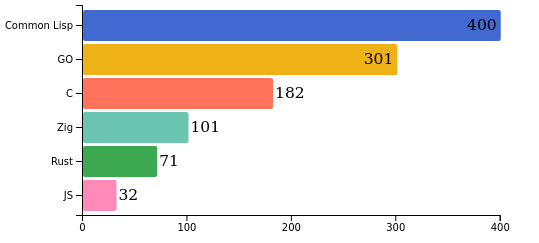
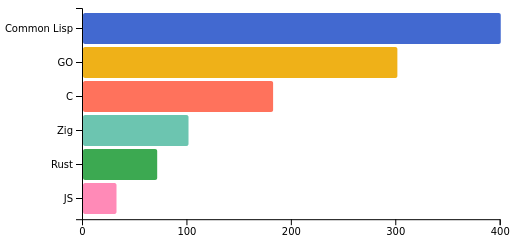
More readme

Changed region(s): [[0.0, 0.0288, 0.966, 0.9506]]

diff --git a/js/main.js b/js/main.js
@@ -9753,7 +9753,7 @@
 
   // js/example.jsx
   ready(function() {
-    var el = "barChartSimpleOne";
+    var elone = "barChartSimpleOne";
     var dataset = [
       { key: "JS", value: 32 },
       { key: "GO", value: 301 },
@@ -9762,16 +9762,26 @@
       { key: "Zig", value: 101 },
       { key: "Common Lisp", value: 400 }
     ];
-    const rect = document.getElementById(el).getBoundingClientRect();
+    const rect = document.getElementById(elone).getBoundingClientRect();
     const width = rect.width;
     const height = rect.height;
     var max3 = max(dataset, (d) => d.value);
     var domain = sort(dataset, (d) => -d.value).map((d) => d.key);
-    var TheBar = BarChartSimple().SvgID("thebar").Val(function(a) {
+    var TheBarOne = BarChartSimple().SvgID("thebarone").Val(function(a) {
       return a.value;
     }).Band(function(a) {
       return a.key;
-    }).Orient("vertical").DomainBand(domain).DomainVal([0, max3]).ColourDomain(domain).ColourRange(observable10_default).Width(width).Height(height).MarginTop(0).MarginBottom(0).MarginLeft(80).MarginRight(0).WithText(true).FontDividend(2).TextDeltaX(3).TextDeltaY(4).TextFill(["black", "black"]).TextAnchor(["start", "end"]).CornerRadiusX(2).Data(dataset);
-    select_default2("#" + el).call(TheBar);
+    }).Orient("vertical").DomainBand(domain).DomainVal([0, max3]).ColourDomain(domain).ColourRange(observable10_default).Width(width).Height(height).MarginTop(0).MarginBottom(0).MarginLeft(80).MarginRight(0).CornerRadiusX(2).Data(dataset);
+    select_default2("#" + elone).call(TheBarOne);
+    var eltwo = "barChartSimpleTwo";
+    const recttwo = document.getElementById(eltwo).getBoundingClientRect();
+    const widthtwo = rect.width;
+    const heighttwo = rect.height;
+    var TheBarTwo = BarChartSimple().SvgID("thebartwo").Val(function(a) {
+      return a.value;
+    }).Band(function(a) {
+      return a.key;
+    }).Orient("horizontal").DomainBand(domain).DomainVal([0, max3]).ColourDomain(domain).ColourRange(observable10_default).Width(widthtwo).Height(heighttwo).MarginTop(0).MarginBottom(0).MarginLeft(80).MarginRight(0).CornerRadiusX(2).Data(dataset);
+    select_default2("#" + eltwo).call(TheBarTwo);
   });
 })();

diff --git a/js/example.jsx b/js/example.jsx
@@ -4,7 +4,7 @@ import { ready } from '../events.js'
 
 ready(function(){
   //
-  var el = "barChartSimpleOne";
+  var elone = "barChartSimpleOne";
   var dataset = [
     {key:'JS',value:32},
     {key:'GO',value:301},
@@ -14,15 +14,15 @@ ready(function(){
     {key:'Common Lisp',value:400},
   ];
   //
-  const rect = document.getElementById(el).getBoundingClientRect();
+  const rect = document.getElementById(elone).getBoundingClientRect();
   const width = rect.width;
   const height = rect.height;
   //
   var max = d3.max(dataset, d => d.value);
   var domain = d3.sort(dataset, d=> -d.value).map(d => d.key);
   //
-  var TheBar = BarChartSimple()
-  .SvgID("thebar")
+  var TheBarOne = BarChartSimple()
+  .SvgID("thebarone")
   .Val(function(a) {return a.value;})
   .Band(function(a) {return a.key;})
   .Orient("vertical")
@@ -36,15 +36,36 @@ ready(function(){
   .MarginBottom(0)
   .MarginLeft(80)
   .MarginRight(0)
-  .WithText(true)
-  .FontDividend(2)
-  .TextDeltaX(3)
-  .TextDeltaY(4)
-  .TextFill(["black","black"])
-  .TextAnchor(["start", "end"])
   .CornerRadiusX(2)
   .Data(dataset);
   //
-  d3.select("#"+el)
-    .call(TheBar);
+  d3.select("#"+elone)
+    .call(TheBarOne);
+  //
+  //
+  var eltwo = "barChartSimpleTwo";
+  const recttwo = document.getElementById(eltwo).getBoundingClientRect();
+  const widthtwo = rect.width;
+  const heighttwo = rect.height;
+
+  var TheBarTwo = BarChartSimple()
+  .SvgID("thebartwo")
+  .Val(function(a) {return a.value;})
+  .Band(function(a) {return a.key;})
+  .Orient("horizontal")
+  .DomainBand(domain)
+  .DomainVal([0,max])
+  .ColourDomain(domain)
+  .ColourRange(d3.schemeObservable10)
+  .Width(widthtwo)
+  .Height(heighttwo)
+  .MarginTop(0)
+  .MarginBottom(0)
+  .MarginLeft(80)
+  .MarginRight(0)
+  .CornerRadiusX(2)
+  .Data(dataset);
+  //
+  d3.select("#"+eltwo)
+    .call(TheBarTwo);
 });

diff --git a/index.html b/index.html
@@ -10,6 +10,7 @@
   <body>
     <div class="container flex flex-row" style="height:40vh">
       <div id="barChartSimpleOne" class="w-full h-full" style="height:100%;min-width:30%;min-height:100%"></div>
+      <div id="barChartSimpleTwo" class="w-full h-full" style="height:100%;min-width:30%;min-height:100%"></div>
     </div> 
   </body>
 </html>

diff --git a/css/style.css b/css/style.css
@@ -10,6 +10,12 @@
 .flex-col {
   flex-direction: column;
 }
+.grid {
+  display: grid;
+}
+.igrid {
+  display: inline-grid;
+}
 .w-full {
   min-width: 100%;
 }

diff --git a/README.md b/README.md
@@ -58,4 +58,8 @@ A simple bar chart can be created like this:
 
 Creating this chart:
 
-![Simple Bar Chart](docs/imgs/barChartSimpleOne.png)
+![Simple Bar Chart One](docs/imgs/barChartSimpleOne.png)
+
+One change to the chained functions (Orient("horizontal")) will produce this chart:
+
+![Simple Bar Chart Horizontal](docs/imgs/barChartSimpleTwo.png)
